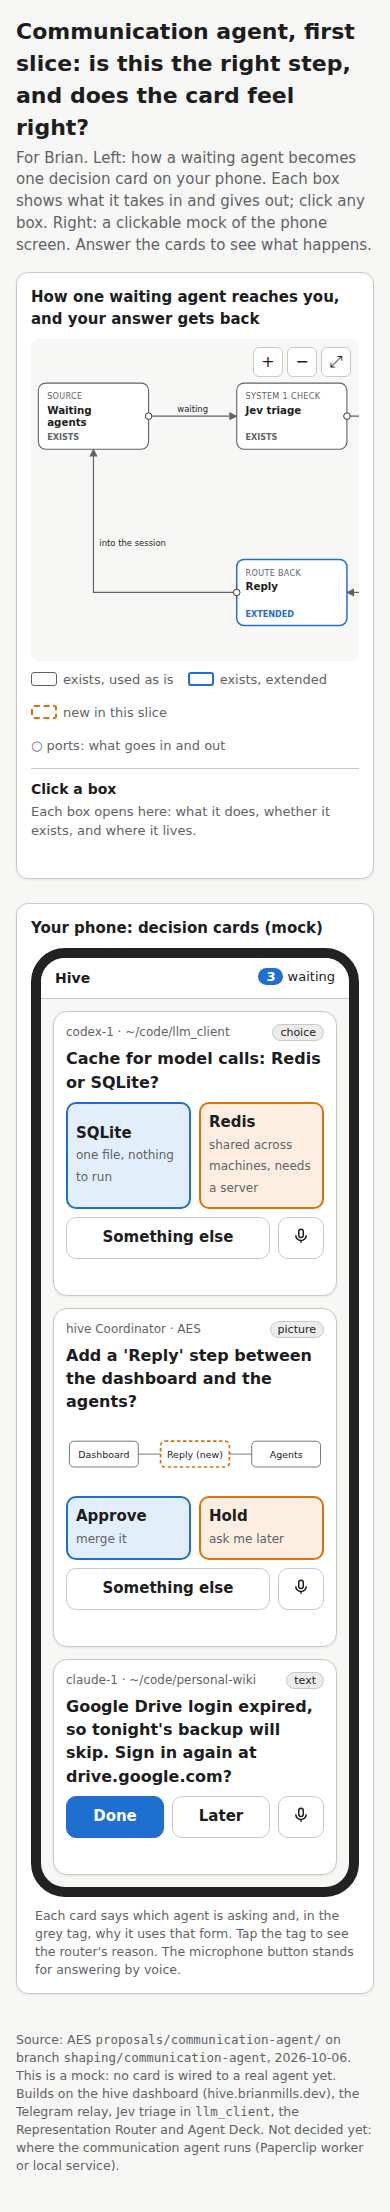
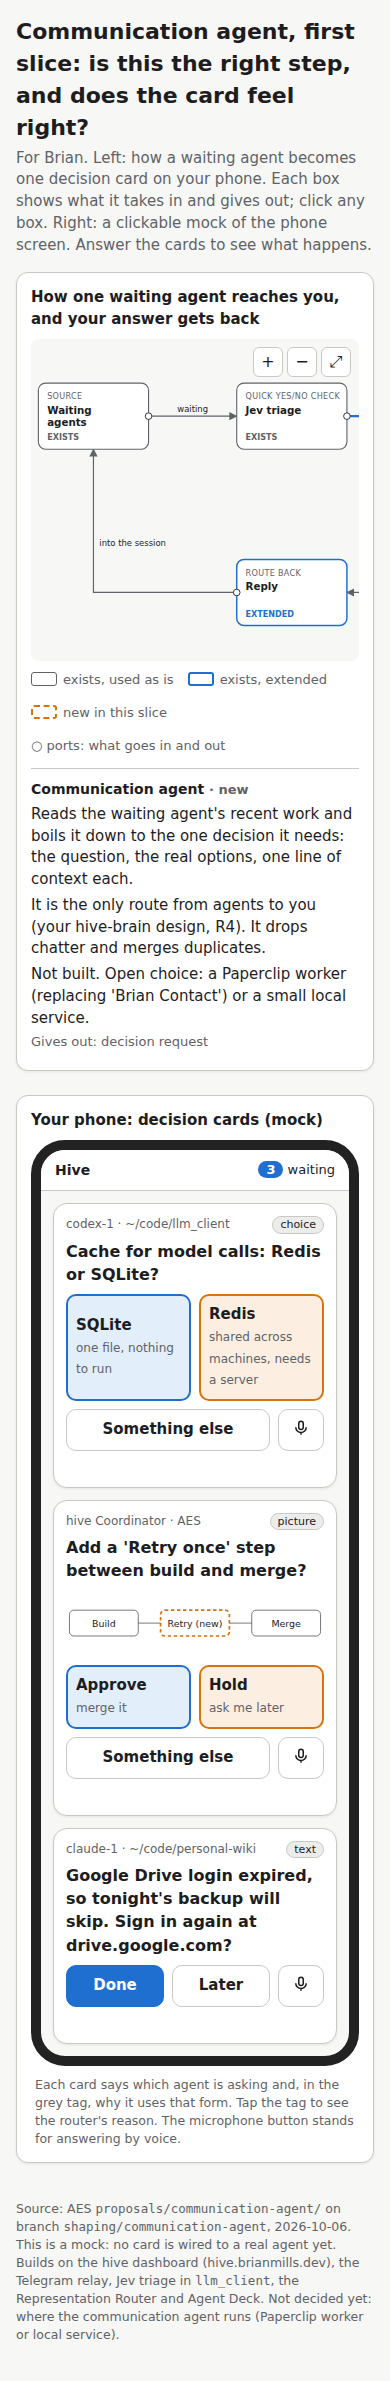
[Shaping communication-agent] Fix cold-read confusions in the review page
Claude-Session: https://claude.ai/code/session_01N1bYC4fR6yGUh3qMSz5aLG

Changed region(s): [[0.0308, 0.0, 0.9538, 0.9982], [0.2462, 0.2184, 0.4308, 0.2495]]

diff --git a/proposals/communication-agent/review-page/communication-agent.html b/proposals/communication-agent/review-page/communication-agent.html
@@ -136,7 +136,7 @@ const NODES=[
  {id:"workers",x:10,y:60,w:150,h:90,kind:"source",name:"Waiting|agents",st:"exists",tag:"EXISTS",
   out:["waiting + last message"],
   detail:["Hive workers (Paperclip on personal-vps) and local Claude Code / Codex sessions in Agent Deck.","Both already report when they stop and wait: Paperclip tasks, Agent Deck status.","Lives: personal-vps Paperclip; ~/code/attention-manager reads Agent Deck."]},
- {id:"jev",x:280,y:60,w:150,h:90,kind:"system 1 check",name:"Jev triage",st:"exists",tag:"EXISTS",
+ {id:"jev",x:280,y:60,w:150,h:90,kind:"quick yes/no check",name:"Jev triage",st:"exists",tag:"EXISTS",
   out:["needs Brian? (probability)"],
   detail:["One cheap yes/no question per waiting agent: is it stuck until you answer, or just done?","Costs about $0.00002 and 0.3 s. Today it ranks sessions in attn; here it decides which ones get a card.","Lives: llm_client call_decisions (typesafe/jev-1.13); later a local Laya model."]},
  {id:"comm",x:550,y:60,w:150,h:90,kind:"new agent",name:"Communication|agent",st:"new",tag:"NEW",
@@ -212,7 +212,7 @@ const CARDS=[
   q:"Cache for model calls: Redis or SQLite?",
   opts:[["SQLite","one file, nothing to run"],["Redis","shared across machines, needs a server"]]},
  {who:"hive Coordinator · AES",form:"picture",why:"It changes how parts connect; a small before/after picture shows that faster than a paragraph.",
-  q:"Add a 'Reply' step between the dashboard and the agents?",picture:true,
+  q:"Add a 'Retry once' step between build and merge?",picture:true,
   opts:[["Approve","merge it"],["Hold","ask me later"]]},
  {who:"claude-1 · ~/code/personal-wiki",form:"text",why:"A single fact you need to act on; a short sentence is the clearest form.",
   q:"Google Drive login expired, so tonight's backup will skip. Sign in again at drive.google.com?",
@@ -226,7 +226,7 @@ function render(){
   const d=document.createElement("div");d.className="card";
   d.innerHTML=`<div class="who"><span>${c.who}</span><button class="form-tag" data-tip="The router chose this form. Tap to see why.">${c.form}</button></div>
    <div class="q">${c.q}</div>
-   ${c.picture?`<svg class="mini" viewBox="0 0 300 70"><g><rect x="4" y="20" width="80" height="30" rx="5"/><text x="44" y="39" text-anchor="middle">Dashboard</text></g><g class="add"><rect x="110" y="20" width="80" height="30" rx="5"/><text x="150" y="39" text-anchor="middle">Reply (new)</text></g><g><rect x="216" y="20" width="80" height="30" rx="5"/><text x="256" y="39" text-anchor="middle">Agents</text></g><path d="M84 35 H110 M190 35 H216"/></svg>`:""}
+   ${c.picture?`<svg class="mini" viewBox="0 0 300 70"><g><rect x="4" y="20" width="80" height="30" rx="5"/><text x="44" y="39" text-anchor="middle">Build</text></g><g class="add"><rect x="110" y="20" width="80" height="30" rx="5"/><text x="150" y="39" text-anchor="middle">Retry (new)</text></g><g><rect x="216" y="20" width="80" height="30" rx="5"/><text x="256" y="39" text-anchor="middle">Merge</text></g><path d="M84 35 H110 M190 35 H216"/></svg>`:""}
    ${c.plain?`<div class="row">${c.opts.map((o,j)=>`<button class="btn ${j===0?"primary":""}" data-j="${j}" data-tip="${o[1]}">${o[0]}</button>`).join("")}<button class="mic" data-tip="Answer by voice: tap, then speak" aria-label="Answer by voice"><svg width="18" height="18" viewBox="0 0 24 24" aria-hidden="true"><rect x="9" y="3" width="6" height="11" rx="3" fill="none" stroke="currentColor" stroke-width="2"/><path d="M5 11a7 7 0 0 0 14 0M12 18v3" fill="none" stroke="currentColor" stroke-width="2"/></svg></button></div>`
      :`<div class="opts">${c.opts.map((o,j)=>`<button class="opt ${j?"alt":""}" data-j="${j}" data-tip="Choose ${o[0]}: ${o[1]}"><b>${o[0]}</b><span>${o[1]}</span></button>`).join("")}</div><div class="row"><button class="btn" data-j="other" data-tip="Neither: say or type what you want instead">Something else</button><button class="mic" data-tip="Answer by voice: tap, then speak" aria-label="Answer by voice"><svg width="18" height="18" viewBox="0 0 24 24" aria-hidden="true"><rect x="9" y="3" width="6" height="11" rx="3" fill="none" stroke="currentColor" stroke-width="2"/><path d="M5 11a7 7 0 0 0 14 0M12 18v3" fill="none" stroke="currentColor" stroke-width="2"/></svg></button></div>`}
    <div class="listening"></div>`;
@@ -250,7 +250,7 @@ function bindTips(root){root.querySelectorAll("[data-tip]").forEach(e=>{if(e._ti
  e.addEventListener("mouseenter",()=>show(e,e.dataset.tip));e.addEventListener("mouseleave",hide);
  e.addEventListener("focus",()=>show(e,e.dataset.tip));e.addEventListener("blur",hide);
  let lp;e.addEventListener("touchstart",()=>{lp=setTimeout(()=>{show(e,e.dataset.tip);setTimeout(hide,2200)},450)},{passive:true});e.addEventListener("touchend",()=>clearTimeout(lp))})}
-render();bindTips(document);
+render();bindTips(document);select("comm");
 </script>
 </body>
 </html>
